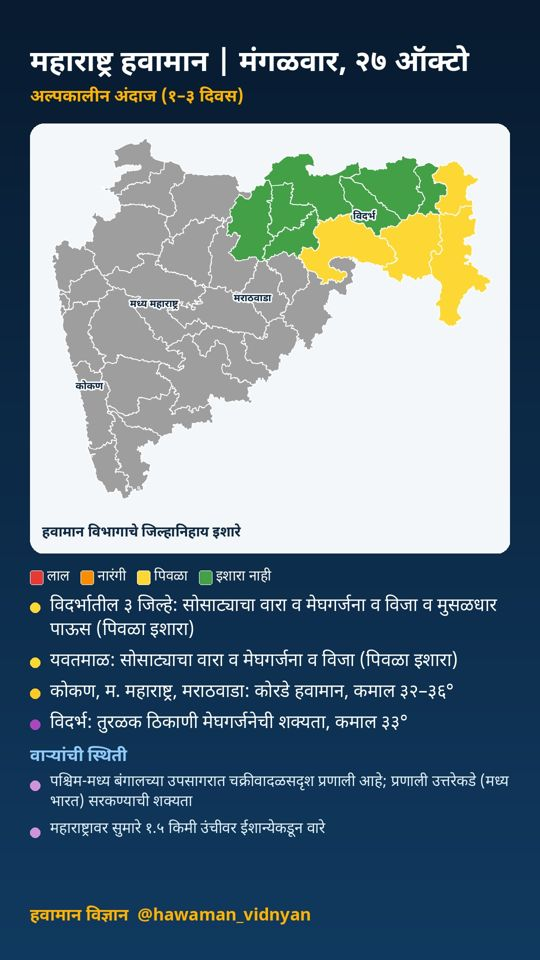
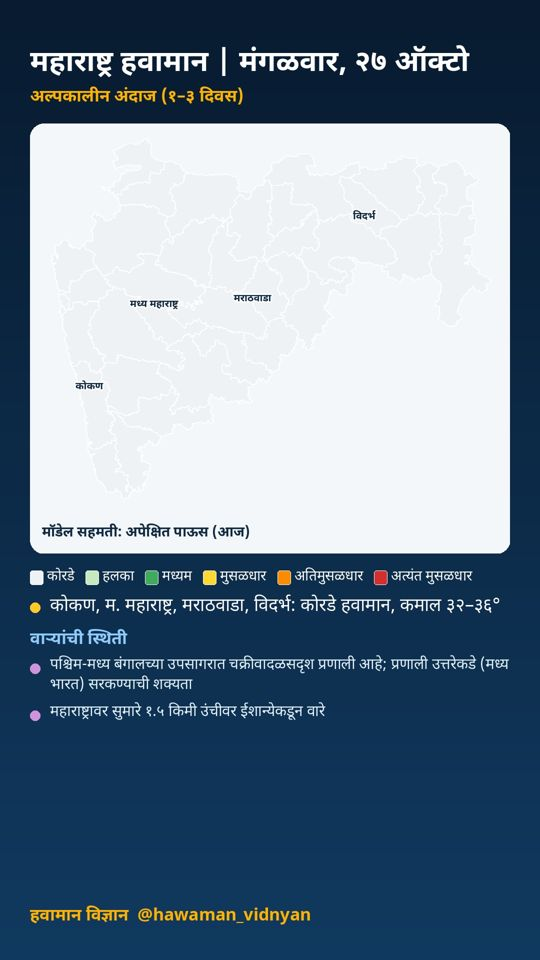
Alert 2026-10-27 (hawaman-vidnyan)

Changed region(s): [[0.0296, 0.5938, 0.9481, 0.875], [0.0889, 0.125, 0.9185, 0.5625], [0.7407, 0.7812, 0.9481, 0.8438]]

diff --git a/docs/alerts/2026-10-27-hawaman/index.html b/docs/alerts/2026-10-27-hawaman/index.html
@@ -11,12 +11,12 @@
       if (l === 'mr') document.documentElement.lang = 'mr';
     })();
   </script>
-  <title data-mr="महाराष्ट्र हवामान | मंगळवार, २७ ऑक्टो — हवामान इशारा">महाराष्ट्र हवामान | मंगळवार, २७ ऑक्टो — Weather alert</title>
-  <meta name="description" content="Yellow alert: महाराष्ट्र हवामान | मंगळवार, २७ ऑक्टो (27 October 2026)">
+  <title data-mr="पुढील आठवडा (३० ऑक्टो – ५ नोव्हें) | महाराष्ट्र — हवामान इशारा">पुढील आठवडा (३० ऑक्टो – ५ नोव्हें) | महाराष्ट्र — Weather alert</title>
+  <meta name="description" content="Information analysis: पुढील आठवडा (३० ऑक्टो – ५ नोव्हें) | महाराष्ट्र (27 October 2026)">
   <link rel="preconnect" href="https://fonts.googleapis.com">
   <link rel="preconnect" href="https://fonts.gstatic.com" crossorigin>
   <link href="https://fonts.googleapis.com/css2?family=Mukta:wght@400;500;600;700&family=Noto+Serif+Devanagari:wght@600;700&display=swap" rel="stylesheet">
-  <link rel="stylesheet" href="../../static/css/style.css?v=7f417a43">
+  <link rel="stylesheet" href="../../static/css/style.css?v=53f47638">
 </head>
 <body>
   <header class="site-header">
@@ -45,12 +45,12 @@
   <main class="wrap main">
 <article class="article">
   <p class="muted"><a href="../../alerts/index.html"><span class="l-en">← All alerts</span><span class="l-mr" lang="mr">← सर्व इशारे</span></a></p>
-  <div class="alert-banner level-yellow">
-    <span class="badge badge-yellow"><span class="l-en">Yellow alert · Be updated</span><span class="l-mr" lang="mr">पिवळा इशारा · अद्ययावत राहा</span></span>
-    <h1>महाराष्ट्र हवामान | मंगळवार, २७ ऑक्टो</h1>
+  <div class="alert-banner level-info">
+    <span class="badge badge-info"><span class="l-en">Information · analysis</span><span class="l-mr" lang="mr">माहितीपर विश्लेषण</span></span>
+    <h1>पुढील आठवडा (३० ऑक्टो – ५ नोव्हें) | महाराष्ट्र</h1>
     <dl class="alert-facts">
       <div><dt><span class="l-en">Date</span><span class="l-mr" lang="mr">दिनांक</span></dt><dd><time datetime="2026-10-27"><span class="l-en">Tuesday, 27 October 2026</span><span class="l-mr" lang="mr">मंगळवार, २७ ऑक्टोबर २०२६</span></time></dd></div>
-<div><dt><span class="l-en">Valid</span><span class="l-mr" lang="mr">वैधता</span></dt><dd><span class="l-en">27 October 2026 — Short-range analysis (1–3 days)</span><span class="l-mr" lang="mr">२७ ऑक्टोबर २०२६ — अल्पकालीन विश्लेषण (१–३ दिवस)</span></dd></div><div><dt><span class="l-en">Districts / regions</span><span class="l-mr" lang="mr">जिल्हे/भाग</span></dt><dd><span class="l-en">Yavatmal</span><span class="l-mr" lang="mr">यवतमाळ</span>, <span class="l-en">Gondia</span><span class="l-mr" lang="mr">गोंदिया</span>, <span class="l-en">Chandrapur</span><span class="l-mr" lang="mr">चंद्रपूर</span>, <span class="l-en">Gadchiroli</span><span class="l-mr" lang="mr">गडचिरोली</span></dd></div><div><dt><span class="l-en">Hazards</span><span class="l-mr" lang="mr">धोके</span></dt><dd><span class="l-en">Heavy rain</span><span class="l-mr" lang="mr">मुसळधार पाऊस</span>, <span class="l-en">Thunderstorm &amp; lightning</span><span class="l-mr" lang="mr">मेघगर्जना व विजा</span>, <span class="l-en">Strong surface winds</span><span class="l-mr" lang="mr">सोसाट्याचा वारा</span></dd></div>    </dl>
+<div><dt><span class="l-en">Valid</span><span class="l-mr" lang="mr">वैधता</span></dt><dd><span class="l-en">27 October 2026 — Medium-range analysis (4–10 days)</span><span class="l-mr" lang="mr">२७ ऑक्टोबर २०२६ — मध्यम कालावधी विश्लेषण (४–१० दिवस)</span></dd></div><div><dt><span class="l-en">Districts / regions</span><span class="l-mr" lang="mr">जिल्हे/भाग</span></dt><dd><span class="l-en">Konkan</span><span class="l-mr" lang="mr">कोकण</span>, <span class="l-en">Madhya Maharashtra</span><span class="l-mr" lang="mr">मध्य महाराष्ट्र</span>, <span class="l-en">Marathwada</span><span class="l-mr" lang="mr">मराठवाडा</span>, <span class="l-en">Vidarbha</span><span class="l-mr" lang="mr">विदर्भ</span></dd></div>    </dl>
   </div>
   <section class="reel">
     <h2><span class="l-en">Today&#39;s visual analysis</span><span class="l-mr" lang="mr">आजचे दृश्य विश्लेषण</span> <span class="muted"><span class="l-en">(reel slides)</span><span class="l-mr" lang="mr">(रील स्लाइड्स)</span></span></h2>
@@ -99,33 +99,29 @@
       </figure>
     </div>
 </details>  </section>
-  <p class="lang-note l-en">This page is written in Marathi.</p><div class="prose" lang="mr"><p><strong>अल्पकालीन विश्लेषण (१–३ दिवस)</strong> · वैयक्तिक विश्लेषणावर आधारित</p>
-<p>🟡 विदर्भातील ३ जिल्हे: सोसाट्याचा वारा व मेघगर्जना व विजा व मुसळधार पाऊस<br />
-🟡 यवतमाळ: सोसाट्याचा वारा व मेघगर्जना व विजा<br />
-☀ कोकण, म. महाराष्ट्र, मराठवाडा: कोरडे हवामान<br />
-🌀 पश्चिम-मध्य बंगालच्या उपसागरात चक्रीवादळसदृश प्रणाली आहे</p>
-<p><img src="../../static/images/alerts/2026-10-27/1_card.jpg" alt="अल्पकालीन विश्लेषण (१–३ दिवस)" /></p>
+  <p class="lang-note l-en">This page is written in Marathi.</p><div class="prose" lang="mr"><p><strong>मध्यम कालावधी विश्लेषण (४–१० दिवस)</strong> · वैयक्तिक विश्लेषणावर आधारित</p>
+<p>☔ पावसाची शक्यता:<br />
+🌧 कोकण: अधिक<br />
+🌧 म. महाराष्ट्र: अधिक<br />
+🌧 मराठवाडा: अधिक<br />
+🌦 विदर्भ: मध्यम<br />
+🌡 तापमानात विशेष बदल नाही<br />
+🌀 ३० ऑक्टो रोजी मध्य भारतावर असलेली तीव्र कमी दाबाचे क्षेत्र नैऋत्येकडे सरकण्याची शक्यता</p>
+<p><img src="../../static/images/alerts/2026-10-27/1_card.jpg" alt="मध्यम कालावधी विश्लेषण (४–१० दिवस)" /></p>
 <h3>हवामानामागचे कारण</h3>
 <p>🌀 वाऱ्यांची स्थिती व कारणमीमांसा:<br />
-• पश्चिम-मध्य बंगालच्या उपसागरात चक्रीवादळसदृश प्रणाली आहे; प्रणाली उत्तरेकडे (मध्य भारत) सरकण्याची शक्यता. या प्रणालीमुळे राज्यात ढगाळ हवामान व पावसाची शक्यता वाढू शकते</p>
-<p>• ईशान्य अरबी समुद्रात २८ ऑक्टो दरम्यान कमी दाबाचे क्षेत्र तयार होण्याचे संकेत; प्रणाली नैऋत्येकडे (पूर्व-मध्य अरबी समुद्र) सरकण्याची शक्यता<br />
-• पूर्व-मध्य अरबी समुद्रात कमी दाबाचे क्षेत्र आहे; प्रणाली आग्नेयेकडे (नैऋत्य बंगालचा उपसागर) सरकण्याची शक्यता</p>
-<p>• महाराष्ट्रावर सुमारे १.५ किमी उंचीवर ईशान्येकडून वारे<br />
-• उत्तर भारतात २८ ऑक्टो पासून पश्चिमी विक्षोभ; तो पुढे सरकल्यानंतर उत्तरेकडील थंड वाऱ्यांमुळे राज्यात किमान तापमानात घट होऊ शकते<br />
-• पुढील काळात हवेच्या मधल्या थरातील बाष्प वाढत आहे</p>
-<p>🏙 आज शहरांचे कमाल/किमान तापमान (हवामान विभाग):<br />
-मुंबई ३७/२२, रत्नागिरी ३५/२२, पुणे ३४/१६, नाशिक ३५/१६, कोल्हापूर ३३/२२, छ. ३५/१९, नागपूर ३२/१८</p>
-<p>📌 निरीक्षणे:<br />
-🌡 काल सर्वाधिक: मुंबई (सांताक्रूझ) ३७.१°<br />
-❄ नीचांकी: नाशिक १६.२°<br />
-🛰 उपग्रह: राज्यावर आकाश बहुतांश निरभ्र (कोकण १%, मध्य महाराष्ट्र १%, मराठवाडा ०%, विदर्भ ४% ढगाच्छादन)</p>
-<p>ℹ स्रोत: भारतीय हवामान विभाग; युरोपियन (ECMWF), अमेरिकन (GFS), जर्मन (ICON) मॉडेल<br />
+• ३० ऑक्टो रोजी मध्य भारतावर असलेली तीव्र कमी दाबाचे क्षेत्र (डिप्रेशन) नैऋत्येकडे (महाराष्ट्र) सरकण्याची शक्यता (मॉडेल संकेत; IMD च्या अधिकृत माहितीकडे लक्ष ठेवा). या प्रणालीमुळे राज्यात ढगाळ हवामान व पावसाची शक्यता वाढू शकते</p>
+<p>• ३० ऑक्टो रोजी ईशान्य अरबी समुद्रात असलेली कमी दाबाचे क्षेत्र त्याच भागात कायम राहण्याची शक्यता<br />
+• ३० ऑक्टो रोजी अंदमान समुद्रात असलेली कमी दाबाचे क्षेत्र पश्चिमेकडे (दक्षिण भारत) सरकण्याची शक्यता<br />
+• महाराष्ट्रावर सुमारे १.५ किमी उंचीवर ईशान्येकडून वारे</p>
+<p>📌 अधिक तपशील:<br />
+🌡 तापमानात विशेष बदल नाही</p>
+<p>ℹ स्रोत: युरोपियन (ECMWF) ५१-सदस्यीय एन्सेम्बल<br />
 ⚠ हे मॉडेल-आधारित विश्लेषण आहे. अधिकृत इशाऱ्यांसाठी भारतीय हवामान विभाग (IMD) व स्थानिक प्रशासनाच्या सूचना पाहा.</p>
 <p><img src="../../static/images/alerts/2026-10-27/2_circulation_chart.jpg" alt="वाऱ्यांची स्थिती व दाब प्रणाली" /></p>
-<p><img src="../../static/images/alerts/2026-10-27/3_satellite_insat.jpg" alt="वाऱ्यांची स्थिती व दाब प्रणाली" /></p>
 <h2>सविस्तर हवामान विश्लेषण</h2>
 <h3>अल्पकालीन विश्लेषण (१–३ दिवस)</h3>
-<p>नमस्कार! आज मंगळवार, २७ ऑक्टोबर. पाहूया महाराष्ट्राचे हवामान विश्लेषण. भारतीय हवामान विभागाने गोंदिया, चंद्रपूर, गडचिरोली जिल्ह्यांसाठी सोसाट्याचा वारा व मेघगर्जना व विजा व मुसळधार पाऊस संदर्भात पिवळा इशारा दिला आहे. भारतीय हवामान विभागाने यवतमाळ जिल्ह्यांसाठी सोसाट्याचा वारा व मेघगर्जना व विजा संदर्भात पिवळा इशारा दिला आहे. कोकण: कोरडे हवामान. कमाल तापमान सुमारे ३६ आणि किमान २० अंश सेल्सिअस. मध्य महाराष्ट्र: कोरडे हवामान. कमाल तापमान सुमारे ३४ आणि किमान १९ अंश सेल्सिअस. मराठवाडा: कोरडे हवामान. कमाल तापमान सुमारे ३२ आणि किमान १९ अंश सेल्सिअस. विदर्भ: तुरळक ठिकाणी मेघगर्जनेची शक्यता. कमाल तापमान सुमारे ३३ आणि किमान १८ अंश सेल्सिअस. काल राज्यातील सर्वाधिक तापमान मुंबई (सांताक्रूझ) येथे ३७.१ अंश (सरासरीपेक्षा २.९° जास्त) नोंदले गेले. आता पाहूया हवामानामागचे कारण, म्हणजेच वाऱ्यांची स्थिती. पश्चिम-मध्य बंगालच्या उपसागरात चक्रीवादळसदृश प्रणाली आहे; प्रणाली उत्तरेकडे (मध्य भारत) सरकण्याची शक्यता. या प्रणालीमुळे राज्यात ढगाळ हवामान व पावसाची शक्यता वाढू शकते. ईशान्य अरबी समुद्रात २८ ऑक्टो दरम्यान कमी दाबाचे क्षेत्र तयार होण्याचे संकेत; प्रणाली नैऋत्येकडे (पूर्व-मध्य अरबी समुद्र) सरकण्याची शक्यता. पूर्व-मध्य अरबी समुद्रात कमी दाबाचे क्षेत्र आहे; प्रणाली आग्नेयेकडे (नैऋत्य बंगालचा उपसागर) सरकण्याची शक्यता. महाराष्ट्रावर सुमारे १.५ किमी उंचीवर ईशान्येकडून वारे. उत्तर भारतात २८ ऑक्टो पासून पश्चिमी विक्षोभ; तो पुढे सरकल्यानंतर उत्तरेकडील थंड वाऱ्यांमुळे राज्यात किमान तापमानात घट होऊ शकते. पुढील काळात हवेच्या मधल्या थरातील बाष्प वाढत आहे.</p>
+<p>नमस्कार! आज मंगळवार, २७ ऑक्टोबर. पाहूया महाराष्ट्राचे हवामान विश्लेषण. कोकण: कोरडे हवामान. कमाल तापमान सुमारे ३६ आणि किमान २० अंश सेल्सिअस. मध्य महाराष्ट्र: कोरडे हवामान. कमाल तापमान सुमारे ३४ आणि किमान १९ अंश सेल्सिअस. मराठवाडा: कोरडे हवामान. कमाल तापमान सुमारे ३२ आणि किमान १९ अंश सेल्सिअस. विदर्भ: कोरडे हवामान. कमाल तापमान सुमारे ३३ आणि किमान १८ अंश सेल्सिअस. आता पाहूया हवामानामागचे कारण, म्हणजेच वाऱ्यांची स्थिती. पश्चिम-मध्य बंगालच्या उपसागरात चक्रीवादळसदृश प्रणाली आहे; प्रणाली उत्तरेकडे (मध्य भारत) सरकण्याची शक्यता. या प्रणालीमुळे राज्यात ढगाळ हवामान व पावसाची शक्यता वाढू शकते. ईशान्य अरबी समुद्रात २८ ऑक्टो दरम्यान कमी दाबाचे क्षेत्र तयार होण्याचे संकेत; प्रणाली नैऋत्येकडे (पूर्व-मध्य अरबी समुद्र) सरकण्याची शक्यता. पूर्व-मध्य अरबी समुद्रात कमी दाबाचे क्षेत्र आहे; प्रणाली आग्नेयेकडे (नैऋत्य बंगालचा उपसागर) सरकण्याची शक्यता. महाराष्ट्रावर सुमारे १.५ किमी उंचीवर ईशान्येकडून वारे. उत्तर भारतात २८ ऑक्टो पासून पश्चिमी विक्षोभ; तो पुढे सरकल्यानंतर उत्तरेकडील थंड वाऱ्यांमुळे राज्यात किमान तापमानात घट होऊ शकते. पुढील काळात हवेच्या मधल्या थरातील बाष्प वाढत आहे.</p>
 <h3>मध्यम कालावधी विश्लेषण (४–१० दिवस)</h3>
 <p>आता पुढील आठवड्याचा, म्हणजे ३० ऑक्टो – ५ नोव्हें या काळाचे विश्लेषण. युरोपियन हवामान केंद्राच्या ५१ वेगवेगळ्या संभाव्य मॉडेल-परिणामांवर आधारित. कोकण: पावसाची शक्यता अधिक (३० ऑक्टो जास्त). मध्य महाराष्ट्र: पावसाची शक्यता अधिक (२ नोव्हें जास्त). मराठवाडा: पावसाची शक्यता अधिक (२ नोव्हें जास्त). विदर्भ: पावसाची शक्यता मध्यम (३ नोव्हें जास्त).  तापमानात विशेष बदल नाही. या काळातील वाऱ्यांची स्थिती: ३० ऑक्टो रोजी मध्य भारतावर असलेली तीव्र कमी दाबाचे क्षेत्र (डिप्रेशन) नैऋत्येकडे (महाराष्ट्र) सरकण्याची शक्यता (मॉडेल संकेत; IMD च्या अधिकृत माहितीकडे लक्ष ठेवा). या प्रणालीमुळे राज्यात ढगाळ हवामान व पावसाची शक्यता वाढू शकते. ३० ऑक्टो रोजी ईशान्य अरबी समुद्रात असलेली कमी दाबाचे क्षेत्र त्याच भागात कायम राहण्याची शक्यता. ३० ऑक्टो रोजी अंदमान समुद्रात असलेली कमी दाबाचे क्षेत्र पश्चिमेकडे (दक्षिण भारत) सरकण्याची शक्यता. महाराष्ट्रावर सुमारे १.५ किमी उंचीवर ईशान्येकडून वारे.</p>
 <h3>विस्तारित विश्लेषण (२–४ आठवडे)</h3>

diff --git a/docs/index.html b/docs/index.html
@@ -16,7 +16,7 @@
   <link rel="preconnect" href="https://fonts.googleapis.com">
   <link rel="preconnect" href="https://fonts.gstatic.com" crossorigin>
   <link href="https://fonts.googleapis.com/css2?family=Mukta:wght@400;500;600;700&family=Noto+Serif+Devanagari:wght@600;700&display=swap" rel="stylesheet">
-  <link rel="stylesheet" href="./static/css/style.css?v=7f417a43">
+  <link rel="stylesheet" href="./static/css/style.css?v=53f47638">
 </head>
 <body>
   <header class="site-header">
@@ -45,7 +45,7 @@
   <main class="wrap main">
 <section class="hero">
   <div class="hero-photo">
-    <img src="./static/images/profile.jpg?v=7f417a43" alt="Arvind Pagire" width="200" height="200">
+    <img src="./static/images/profile.jpg?v=53f47638" alt="Arvind Pagire" width="200" height="200">
   </div>
   <div class="hero-text">
     <p class="eyebrow"><span class="l-en">Meteorologist · AI-based weather prediction · Hybrid modelling</span><span class="l-mr" lang="mr">हवामानशास्त्रज्ञ · AI-आधारित हवामान अंदाज · हायब्रिड मॉडेलिंग</span></p>
@@ -71,13 +71,13 @@
     <h2><span class="l-en">Latest weather alert</span><span class="l-mr" lang="mr">ताजा हवामान इशारा</span></h2>
     <a href="./alerts/index.html"><span class="l-en">All alerts →</span><span class="l-mr" lang="mr">सर्व इशारे →</span></a>
   </div>
-    <article class="alert-card level-yellow">
+    <article class="alert-card level-info">
   <div class="alert-card-top">
-    <span class="badge badge-yellow"><span class="l-en">Yellow alert · Be updated</span><span class="l-mr" lang="mr">पिवळा इशारा · अद्ययावत राहा</span></span>
+    <span class="badge badge-info"><span class="l-en">Information · analysis</span><span class="l-mr" lang="mr">माहितीपर विश्लेषण</span></span>
     <time datetime="2026-10-27" class="muted"><span class="l-en">Tuesday, 27 October 2026</span><span class="l-mr" lang="mr">मंगळवार, २७ ऑक्टोबर २०२६</span></time>
   </div>
-  <h3><a href="./alerts/2026-10-27-hawaman/index.html">महाराष्ट्र हवामान | मंगळवार, २७ ऑक्टो</a></h3>
-<p class="alert-meta"><strong><span class="l-en">Districts / regions:</span><span class="l-mr" lang="mr">जिल्हे/भाग:</span></strong> <span class="l-en">Yavatmal</span><span class="l-mr" lang="mr">यवतमाळ</span>, <span class="l-en">Gondia</span><span class="l-mr" lang="mr">गोंदिया</span>, <span class="l-en">Chandrapur</span><span class="l-mr" lang="mr">चंद्रपूर</span>, <span class="l-en">Gadchiroli</span><span class="l-mr" lang="mr">गडचिरोली</span></p><p class="alert-meta"><strong><span class="l-en">Hazards:</span><span class="l-mr" lang="mr">धोके:</span></strong> <span class="l-en">Heavy rain</span><span class="l-mr" lang="mr">मुसळधार पाऊस</span>, <span class="l-en">Thunderstorm &amp; lightning</span><span class="l-mr" lang="mr">मेघगर्जना व विजा</span>, <span class="l-en">Strong surface winds</span><span class="l-mr" lang="mr">सोसाट्याचा वारा</span></p><p class="alert-meta"><strong><span class="l-en">Valid:</span><span class="l-mr" lang="mr">वैधता:</span></strong> <span class="l-en">27 October 2026 — Short-range analysis (1–3 days)</span><span class="l-mr" lang="mr">२७ ऑक्टोबर २०२६ — अल्पकालीन विश्लेषण (१–३ दिवस)</span></p></article>
+  <h3><a href="./alerts/2026-10-27-hawaman/index.html">पुढील आठवडा (३० ऑक्टो – ५ नोव्हें) | महाराष्ट्र</a></h3>
+<p class="alert-meta"><strong><span class="l-en">Districts / regions:</span><span class="l-mr" lang="mr">जिल्हे/भाग:</span></strong> <span class="l-en">Konkan</span><span class="l-mr" lang="mr">कोकण</span>, <span class="l-en">Madhya Maharashtra</span><span class="l-mr" lang="mr">मध्य महाराष्ट्र</span>, <span class="l-en">Marathwada</span><span class="l-mr" lang="mr">मराठवाडा</span>, <span class="l-en">Vidarbha</span><span class="l-mr" lang="mr">विदर्भ</span></p><p class="alert-meta"><strong><span class="l-en">Valid:</span><span class="l-mr" lang="mr">वैधता:</span></strong> <span class="l-en">27 October 2026 — Medium-range analysis (4–10 days)</span><span class="l-mr" lang="mr">२७ ऑक्टोबर २०२६ — मध्यम कालावधी विश्लेषण (४–१० दिवस)</span></p></article>
     <p class="stale-note muted" data-date="2026-10-27" hidden>
       <span class="l-en">Note: this alert is from 27 October 2026; today&#39;s alert has not been published yet.</span><span class="l-mr" lang="mr">टीप: हा इशारा २७ ऑक्टोबर २०२६ रोजीचा आहे; आजचा इशारा अद्याप प्रसिद्ध झालेला नाही.</span></p>
   <p class="follow"><a href="https://x.com/arvind_weathLAB" rel="noopener" target="_blank">𝕏 <span class="l-en">Daily Maharashtra weather updates:</span><span class="l-mr" lang="mr">दैनंदिन महाराष्ट्र हवामान अपडेट:</span> @arvind_weathLAB</a></p>

diff --git a/docs/alerts/index.html b/docs/alerts/index.html
@@ -16,7 +16,7 @@
   <link rel="preconnect" href="https://fonts.googleapis.com">
   <link rel="preconnect" href="https://fonts.gstatic.com" crossorigin>
   <link href="https://fonts.googleapis.com/css2?family=Mukta:wght@400;500;600;700&family=Noto+Serif+Devanagari:wght@600;700&display=swap" rel="stylesheet">
-  <link rel="stylesheet" href="../static/css/style.css?v=7f417a43">
+  <link rel="stylesheet" href="../static/css/style.css?v=53f47638">
 </head>
 <body>
   <header class="site-header">
@@ -58,13 +58,13 @@
 </details>
 
 <div class="stack">
-<article class="alert-card level-yellow">
+<article class="alert-card level-info">
   <div class="alert-card-top">
-    <span class="badge badge-yellow"><span class="l-en">Yellow alert · Be updated</span><span class="l-mr" lang="mr">पिवळा इशारा · अद्ययावत राहा</span></span>
+    <span class="badge badge-info"><span class="l-en">Information · analysis</span><span class="l-mr" lang="mr">माहितीपर विश्लेषण</span></span>
     <time datetime="2026-10-27" class="muted"><span class="l-en">Tuesday, 27 October 2026</span><span class="l-mr" lang="mr">मंगळवार, २७ ऑक्टोबर २०२६</span></time>
   </div>
-  <h3><a href="../alerts/2026-10-27-hawaman/index.html">महाराष्ट्र हवामान | मंगळवार, २७ ऑक्टो</a></h3>
-<p class="alert-meta"><strong><span class="l-en">Districts / regions:</span><span class="l-mr" lang="mr">जिल्हे/भाग:</span></strong> <span class="l-en">Yavatmal</span><span class="l-mr" lang="mr">यवतमाळ</span>, <span class="l-en">Gondia</span><span class="l-mr" lang="mr">गोंदिया</span>, <span class="l-en">Chandrapur</span><span class="l-mr" lang="mr">चंद्रपूर</span>, <span class="l-en">Gadchiroli</span><span class="l-mr" lang="mr">गडचिरोली</span></p><p class="alert-meta"><strong><span class="l-en">Hazards:</span><span class="l-mr" lang="mr">धोके:</span></strong> <span class="l-en">Heavy rain</span><span class="l-mr" lang="mr">मुसळधार पाऊस</span>, <span class="l-en">Thunderstorm &amp; lightning</span><span class="l-mr" lang="mr">मेघगर्जना व विजा</span>, <span class="l-en">Strong surface winds</span><span class="l-mr" lang="mr">सोसाट्याचा वारा</span></p><p class="alert-meta"><strong><span class="l-en">Valid:</span><span class="l-mr" lang="mr">वैधता:</span></strong> <span class="l-en">27 October 2026 — Short-range analysis (1–3 days)</span><span class="l-mr" lang="mr">२७ ऑक्टोबर २०२६ — अल्पकालीन विश्लेषण (१–३ दिवस)</span></p></article><article class="alert-card level-info">
+  <h3><a href="../alerts/2026-10-27-hawaman/index.html">पुढील आठवडा (३० ऑक्टो – ५ नोव्हें) | महाराष्ट्र</a></h3>
+<p class="alert-meta"><strong><span class="l-en">Districts / regions:</span><span class="l-mr" lang="mr">जिल्हे/भाग:</span></strong> <span class="l-en">Konkan</span><span class="l-mr" lang="mr">कोकण</span>, <span class="l-en">Madhya Maharashtra</span><span class="l-mr" lang="mr">मध्य महाराष्ट्र</span>, <span class="l-en">Marathwada</span><span class="l-mr" lang="mr">मराठवाडा</span>, <span class="l-en">Vidarbha</span><span class="l-mr" lang="mr">विदर्भ</span></p><p class="alert-meta"><strong><span class="l-en">Valid:</span><span class="l-mr" lang="mr">वैधता:</span></strong> <span class="l-en">27 October 2026 — Medium-range analysis (4–10 days)</span><span class="l-mr" lang="mr">२७ ऑक्टोबर २०२६ — मध्यम कालावधी विश्लेषण (४–१० दिवस)</span></p></article><article class="alert-card level-info">
   <div class="alert-card-top">
     <span class="badge badge-info"><span class="l-en">Information · analysis</span><span class="l-mr" lang="mr">माहितीपर विश्लेषण</span></span>
     <time datetime="2026-10-26" class="muted"><span class="l-en">Monday, 26 October 2026</span><span class="l-mr" lang="mr">सोमवार, २६ ऑक्टोबर २०२६</span></time>

diff --git a/docs/alerts/2026-10-25-hawaman/index.html b/docs/alerts/2026-10-25-hawaman/index.html
@@ -16,7 +16,7 @@
   <link rel="preconnect" href="https://fonts.googleapis.com">
   <link rel="preconnect" href="https://fonts.gstatic.com" crossorigin>
   <link href="https://fonts.googleapis.com/css2?family=Mukta:wght@400;500;600;700&family=Noto+Serif+Devanagari:wght@600;700&display=swap" rel="stylesheet">
-  <link rel="stylesheet" href="../../static/css/style.css?v=7f417a43">
+  <link rel="stylesheet" href="../../static/css/style.css?v=53f47638">
 </head>
 <body>
   <header class="site-header">

diff --git a/docs/alerts/2026-10-26-hawaman/index.html b/docs/alerts/2026-10-26-hawaman/index.html
@@ -16,7 +16,7 @@
   <link rel="preconnect" href="https://fonts.googleapis.com">
   <link rel="preconnect" href="https://fonts.gstatic.com" crossorigin>
   <link href="https://fonts.googleapis.com/css2?family=Mukta:wght@400;500;600;700&family=Noto+Serif+Devanagari:wght@600;700&display=swap" rel="stylesheet">
-  <link rel="stylesheet" href="../../static/css/style.css?v=7f417a43">
+  <link rel="stylesheet" href="../../static/css/style.css?v=53f47638">
 </head>
 <body>
   <header class="site-header">

diff --git a/docs/contact/thanks/index.html b/docs/contact/thanks/index.html
@@ -16,7 +16,7 @@
   <link rel="preconnect" href="https://fonts.googleapis.com">
   <link rel="preconnect" href="https://fonts.gstatic.com" crossorigin>
   <link href="https://fonts.googleapis.com/css2?family=Mukta:wght@400;500;600;700&family=Noto+Serif+Devanagari:wght@600;700&display=swap" rel="stylesheet">
-  <link rel="stylesheet" href="../../static/css/style.css?v=7f417a43">
+  <link rel="stylesheet" href="../../static/css/style.css?v=53f47638">
 </head>
 <body>
   <header class="site-header">

diff --git a/docs/about/index.html b/docs/about/index.html
@@ -16,7 +16,7 @@
   <link rel="preconnect" href="https://fonts.googleapis.com">
   <link rel="preconnect" href="https://fonts.gstatic.com" crossorigin>
   <link href="https://fonts.googleapis.com/css2?family=Mukta:wght@400;500;600;700&family=Noto+Serif+Devanagari:wght@600;700&display=swap" rel="stylesheet">
-  <link rel="stylesheet" href="../static/css/style.css?v=7f417a43">
+  <link rel="stylesheet" href="../static/css/style.css?v=53f47638">
 </head>
 <body>
   <header class="site-header">

diff --git a/docs/blog/index.html b/docs/blog/index.html
@@ -16,7 +16,7 @@
   <link rel="preconnect" href="https://fonts.googleapis.com">
   <link rel="preconnect" href="https://fonts.gstatic.com" crossorigin>
   <link href="https://fonts.googleapis.com/css2?family=Mukta:wght@400;500;600;700&family=Noto+Serif+Devanagari:wght@600;700&display=swap" rel="stylesheet">
-  <link rel="stylesheet" href="../static/css/style.css?v=7f417a43">
+  <link rel="stylesheet" href="../static/css/style.css?v=53f47638">
 </head>
 <body>
   <header class="site-header">

diff --git a/docs/contact/index.html b/docs/contact/index.html
@@ -16,7 +16,7 @@
   <link rel="preconnect" href="https://fonts.googleapis.com">
   <link rel="preconnect" href="https://fonts.gstatic.com" crossorigin>
   <link href="https://fonts.googleapis.com/css2?family=Mukta:wght@400;500;600;700&family=Noto+Serif+Devanagari:wght@600;700&display=swap" rel="stylesheet">
-  <link rel="stylesheet" href="../static/css/style.css?v=7f417a43">
+  <link rel="stylesheet" href="../static/css/style.css?v=53f47638">
 </head>
 <body>
   <header class="site-header">

diff --git a/docs/forecast/index.html b/docs/forecast/index.html
@@ -16,7 +16,7 @@
   <link rel="preconnect" href="https://fonts.googleapis.com">
   <link rel="preconnect" href="https://fonts.gstatic.com" crossorigin>
   <link href="https://fonts.googleapis.com/css2?family=Mukta:wght@400;500;600;700&family=Noto+Serif+Devanagari:wght@600;700&display=swap" rel="stylesheet">
-  <link rel="stylesheet" href="../static/css/style.css?v=7f417a43">
+  <link rel="stylesheet" href="../static/css/style.css?v=53f47638">
 </head>
 <body>
   <header class="site-header">

diff --git a/docs/publications/index.html b/docs/publications/index.html
@@ -16,7 +16,7 @@
   <link rel="preconnect" href="https://fonts.googleapis.com">
   <link rel="preconnect" href="https://fonts.gstatic.com" crossorigin>
   <link href="https://fonts.googleapis.com/css2?family=Mukta:wght@400;500;600;700&family=Noto+Serif+Devanagari:wght@600;700&display=swap" rel="stylesheet">
-  <link rel="stylesheet" href="../static/css/style.css?v=7f417a43">
+  <link rel="stylesheet" href="../static/css/style.css?v=53f47638">
 </head>
 <body>
   <header class="site-header">

diff --git a/docs/404.html b/docs/404.html
@@ -16,7 +16,7 @@
   <link rel="preconnect" href="https://fonts.googleapis.com">
   <link rel="preconnect" href="https://fonts.gstatic.com" crossorigin>
   <link href="https://fonts.googleapis.com/css2?family=Mukta:wght@400;500;600;700&family=Noto+Serif+Devanagari:wght@600;700&display=swap" rel="stylesheet">
-  <link rel="stylesheet" href="./static/css/style.css?v=7f417a43">
+  <link rel="stylesheet" href="./static/css/style.css?v=53f47638">
 </head>
 <body>
   <header class="site-header">
